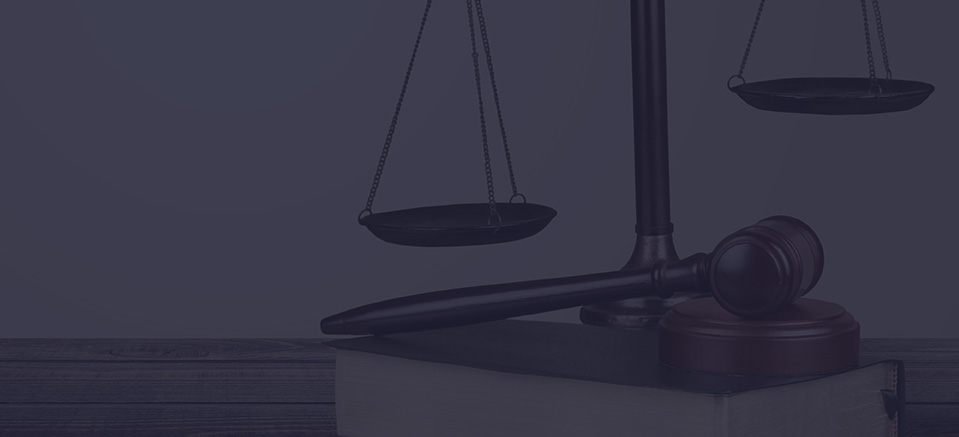
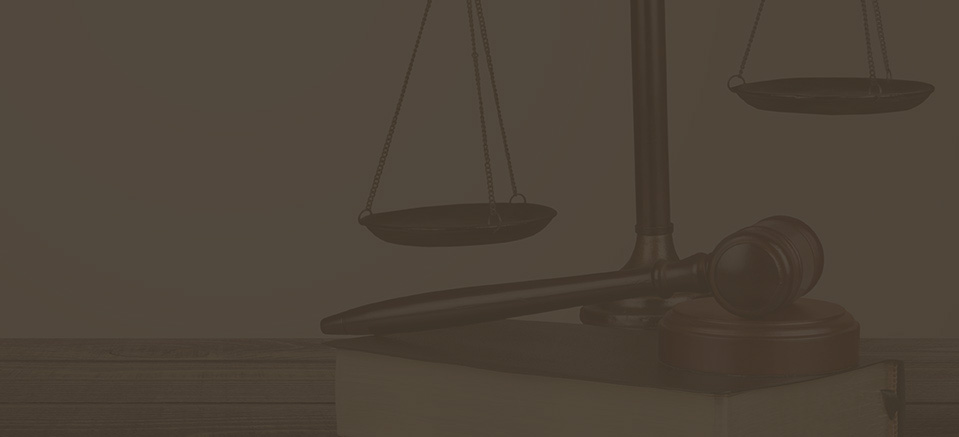
updates to gold

diff --git a/css/style.css b/css/style.css
@@ -415,7 +415,7 @@ body.bodyColor .bb-fixed-header {
 .btn-secondary {
   -webkit-transition: all 0.3s ease-in-out;
   transition: all 0.3s ease-in-out;
-  background-color: #515b78; }
+  background-color: #705923; }
   .btn-secondary > i {
     margin-right: 10px; }
   .btn-secondary:hover {
@@ -532,12 +532,12 @@ body.bodyColor .bb-fixed-header {
     background-color: #f5f5f5; }
 
 .btn-dark {
-  background-color: #515b78;
-  border-color: #515b78;
+  background-color: #705923;
+  border-color: #705923;
   color: #ffffff; }
   .btn-dark:focus, .btn-dark.active, .btn-dark:active, .btn-dark:hover {
-    background-color: #515b78;
-    border-color: #515b78;
+    background-color: #705923;
+    border-color: #705923;
     color: #ffffff; }
 
 .btn-full-round {
@@ -1110,7 +1110,7 @@ body.bodyColor .bb-fixed-header {
 .top-info-bar {
   display: block;
   z-index: 100;
-  background-color: #515b78;
+  background-color: #705923;
   height: 35px;
   position: relative;
   top: 0;
@@ -2937,7 +2937,7 @@ footer {
   .block > h3 {
     margin: 0;
     padding: 15px;
-    background: #515b78;
+    background: #705923;
     text-transform: capitalize;
     color: #ffffff; }
   .block .block-inner {
@@ -3732,7 +3732,7 @@ footer {
 .priceUper {
   color: #ffffff;
   padding: 25px 0;
-  background: #515b78;
+  background: #705923;
   -webkit-transition: all 0.3s ease-in-out;
   transition: all 0.3s ease-in-out; }
   .priceUper h5 {
@@ -3919,7 +3919,7 @@ footer {
         display: block;
         margin-bottom: 25px;
         border-radius: 100%;
-        background-color: #515b78;
+        background-color: #705923;
         width: 45px;
         height: 45px;
         line-height: 45px;

diff --git a/css/default.css b/css/default.css
@@ -139,9 +139,9 @@ a,
 .block > h3,
 .priceUper,
 .count-down #simple_timer .table-cell .tab-val {
-  background-color: #515b78; }
+  background-color: #705923; }
 
 .btn-dark, .btn-dark:focus, .btn-dark.active, .btn-dark:active, .btn-dark:hover {
-  border-color: #515b78; }
+  border-color: #705923; }
 
 /*# sourceMappingURL=maps/default.css.map */
